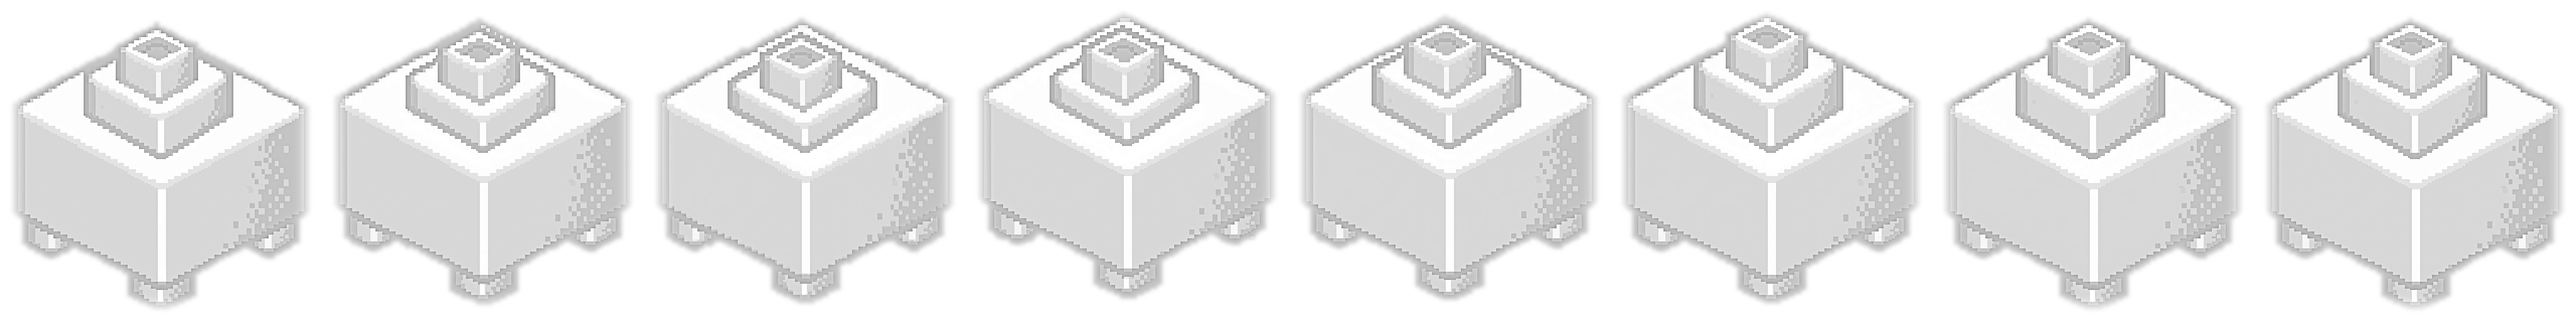
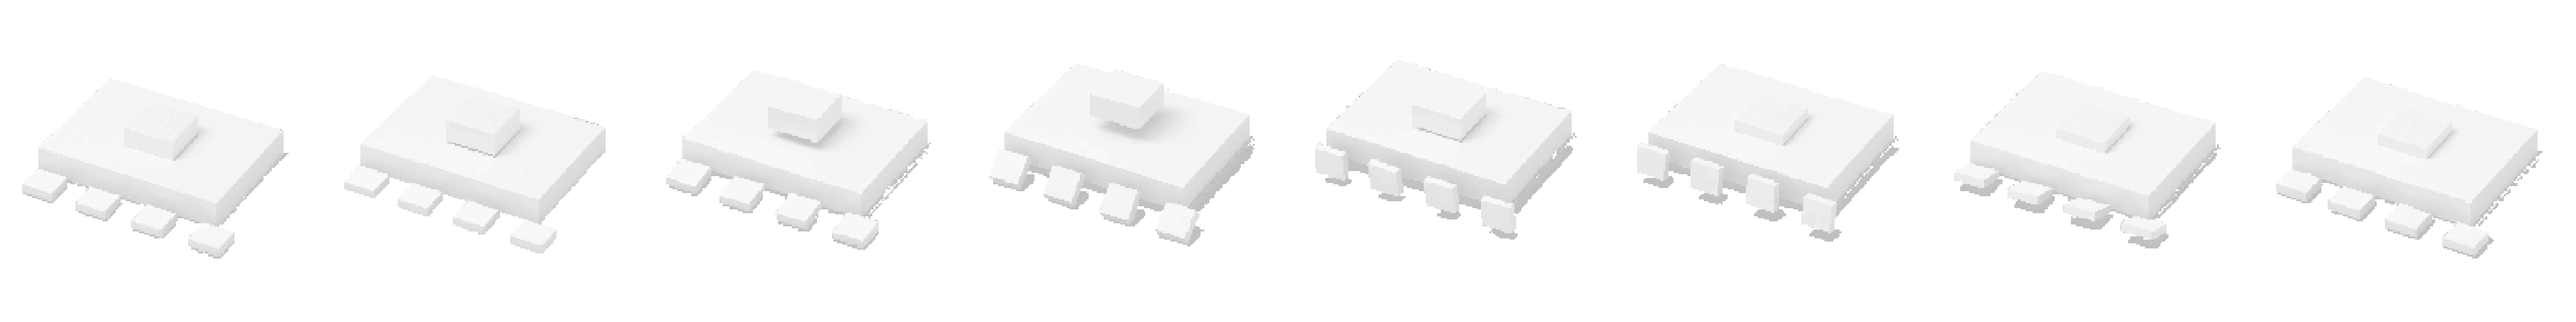
feat(art): the Seeker's projectile tumbles now - projectiles need motion of their own, not just a flight
The cohort knife was rejected: in the arena it read as a static picture moved across the screen.

THE RUNTIME WAS NOT AT FAULT, and that is proven, not assumed: a throwaway strip of the digits 0-7 was
filmed through SPRAY, and 0 -> 5 appear in order at 8 fps while it flies. The flight and the frame clock
share Life, so the 8 frames play once over the 1.0 s crossing, and 6-7 sit in the tail fade. The committed
strip was restored. The cohort knife's eight frames were simply the same picture.

THE NEW STRIP (7ea56119): pinned from the level knife to the same knife tilted ~45 deg point-down (made with
edit_image_pixen 6948b14a), so the interpolation has to turn it. It tumbled the long way, nose up through
vertical, with ~110 deg visible. It keeps the same shape and has no second launch or size pumping. Internal
motion over the visible frames: change 0.07 -> 0.60 (fx_energy.internal_motion, reported not enforced). An
open-ended attempt (ccf65102) stayed level and bent its blade, and was rejected. No glint and no streak came
through. The rotation also shrinks the knife on screen (~320 -> ~130 px): a projectile is sized by the
height of the box around all eight frames. Both are reported for the owner's review, not hidden.
11 generations. Gates: EDGE 0, SOFT 10.3 %, LIVE 883, no FLIGHT warning, lookup confirmed.

OWNER DECISIONS RECORDED (spec.json effects.archetypes, arena-art-contract.md):
- projectiles: two motion layers; a translated static picture is not approved
[…]

diff --git a/production/qa/evidence/vfx-cohort/review.html b/production/qa/evidence/vfx-cohort/review.html
@@ -59,32 +59,32 @@
 <div class="wrap">
   <header style="display:grid;gap:10px">
     <h1>VFX Cohort Review</h1>
-    <p class="lede">Six strips across five temporal archetypes, regenerated through the approved pipeline (assemble → whiten → glow → soften at one source pixel → feather) and filmed in HUNT at true game speed. Every in-game picture is a real frame; each GIF plays every second game frame at exactly 33.3 ms. <span class="mono">fix/vfx-fade</span>, 2026-09-23. Nothing is merged, and no other strip was touched.</p>
+    <p class="lede">Six strips across five temporal archetypes, plus a projectile-motion pilot, regenerated through the approved pipeline (assemble → whiten → glow → soften at one source pixel → feather) and filmed in HUNT at true game speed. Every in-game picture is a real frame; each GIF plays every second game frame at exactly 33.3 ms. <span class="mono">fix/vfx-fade</span>, 2026-09-23. Nothing is merged, and no other strip was touched.</p>
   </header>
 
   <div class="summary">
     <table>
       <thead><tr><th>Strip</th><th>Archetype</th><th>Runtime route</th><th>Generations</th><th>Scale ratio old → new</th><th>Recommendation</th></tr></thead>
       <tbody>
-        <tr><td><code>fx_seeker_trap</code></td><td class="arch">Trap</td><td>JAWS / REPAY, under the enemy row</td><td class="num">6</td><td class="num">1.50 → 1.10 (widest row 1.79 → 1.31)</td><td><span class="chip pass">Pass</span></td></tr>
+        <tr><td><code>fx_seeker_trap</code></td><td class="arch">Trap</td><td>JAWS / REPAY, under the enemy row</td><td class="num">6</td><td class="num">1.50 → 1.10 (widest row 1.79 → 1.31)</td><td><span class="chip cond">Needs tighten cue</span></td></tr>
         <tr><td><code>fx_seeker_mark</code></td><td class="arch">Mark · dual</td><td>CALL over the head, BRAND held behind the hunter</td><td class="num">6</td><td class="num">0.28 → 0.25 · held 1.15 → 1.01</td><td><span class="chip pass">Pass</span></td></tr>
         <tr><td><code>fx_shield</code></td><td class="arch">Shield · dual</td><td>Held barrier and the gain / absorb / undying flares</td><td class="num">11</td><td class="num">0.93 → 1.19</td><td><span class="chip pass">Pass</span></td></tr>
-        <tr><td><code>fx_seeker_projectile</code></td><td class="arch">Projectile</td><td>SPRAY, flown hunter → target</td><td class="num">6</td><td class="num">0.84 → 0.74</td><td><span class="chip pass">Pass</span></td></tr>
-        <tr><td><code>fx_press</code></td><td class="arch">Field</td><td>PRESS, held behind the hunter all fight</td><td class="num">10</td><td class="num">1.44 over → 0.95</td><td><span class="chip cond">Conditional</span></td></tr>
+        <tr><td><code>fx_seeker_projectile</code></td><td class="arch">Projectile</td><td>SPRAY, flown hunter → target</td><td class="num">6 + 11</td><td class="num">0.84 → 0.34 (now tumbles)</td><td><span class="chip cond">Pilot: review</span></td></tr>
+        <tr><td><code>fx_press</code></td><td class="arch">Field</td><td>PRESS, held behind the hunter all fight</td><td class="num">10</td><td class="num">reverted to the old strip</td><td><span class="chip stop">Not approved</span></td></tr>
         <tr><td><code>fx_anvil_strike</code></td><td class="arch">Impact</td><td>THE ANVIL's HARDFACE on a creature</td><td class="num">14</td><td class="num">unchanged (old strip kept)</td><td><span class="chip stop">Stopped</span></td></tr>
       </tbody>
     </table>
   </div>
 
   <section class="fx" id="trap">
-    <div class="fx-head"><h2>Seeker trap</h2><span class="key">fx_seeker_trap</span><span class="chip arch">Trap</span><span class="chip pass">Pass</span></div>
+    <div class="fx-head"><h2>Seeker trap</h2><span class="key">fx_seeker_trap</span><span class="chip arch">Trap</span><span class="chip cond">Needs tighten cue</span></div>
     <div class="pair">
       <figure><img src="img/trap_strips.png" alt="Old drum-shaped trap strip above the new cord snare strip"><figcaption>Old: a drum or wheel. New: a snare of cords, the identity the 2026-08-28 commit asked for.</figcaption></figure>
       <figure><img src="img/trap_realspeed.gif" alt="JAWS in HUNT at game speed, before and after"><figcaption>JAWS at 4.0 s, true speed. Resolved key <code>fx_seeker_trap_strip8_512</code>.</figcaption></figure>
     </div>
     <div class="scroll"><img src="img/trap_ingame.png" alt="Trap frames before and after, aligned on the cast"></div>
     <table class="metrics"><tr><td>Edge / soft / combat-size core</td><td class="num">0 / 0.0 % / 4,352 → 0 / 37.3 % / 3,842</td></tr><tr><td>Diagnostic (settle)</td><td>none, before or after</td></tr><tr><td>Cost</td><td class="num">1 shape + 1 animation = 6</td></tr></table>
-    <div class="verdict pass"><p>One placement, settles and holds, fades, with no rectangle and no second placement. The art spans the frame width, so the standard row fits the scale budget (1.50 → 1.10). The widest row still needs 1.31, the structural remainder you asked me to report. Caveat: PixelLab barely moved the rope, so the snare appears whole instead of snapping shut.</p></div>
+    <div class="verdict pass"><p>One placement, settles and holds, fades, with no rectangle and no second placement. The art spans the frame width, so the standard row fits the scale budget (1.50 → 1.10). The widest row still needs 1.31, the structural remainder you asked me to report. Under the recorded trap decision this is not yet enough: PixelLab barely moved the rope, so the snare appears already tight, with no appear → tighten → hold event. It passes every gate and needs one re-roll for the tension cue.</p></div>
   </section>
 
   <section class="fx" id="mark">
@@ -116,25 +116,29 @@
   </section>
 
   <section class="fx" id="knife">
-    <div class="fx-head"><h2>Seeker projectile</h2><span class="key">fx_seeker_projectile</span><span class="chip arch">Projectile</span><span class="chip pass">Pass</span></div>
+    <div class="fx-head"><h2>Seeker projectile — motion pilot</h2><span class="key">fx_seeker_projectile</span><span class="chip arch">Projectile · two motion layers</span><span class="chip cond">For review</span></div>
+    <p>The cohort knife was rejected: it read as a static picture moved across the screen. The runtime was not at fault. A diagnostic strip of the digits 0–7, filmed through SPRAY, shows the frames advancing at 8 fps while it flies (0 → 5 visible, 6–7 inside the tail fade). The strip itself was still.</p>
     <div class="pair">
-      <figure><img src="img/knife_strips.png" alt="Old and new thrown-knife strips"><figcaption>Same thrown knife, now with soft alpha.</figcaption></figure>
-      <figure><img src="img/knife_realspeed.gif" alt="SPRAY at game speed"><figcaption>SPRAY at 5.2 s: the renderer flies the strip. Key <code>fx_seeker_projectile_strip8_512</code>.</figcaption></figure>
+      <figure><img src="img/proj_frozen_realspeed.gif" alt="A window following each projectile, old versus new, at game speed"><figcaption><strong>Frozen view:</strong> the window follows each projectile, so world motion cancels. Old: the same picture every frame. New: the knife tumbles.</figcaption></figure>
+      <figure><img src="img/proj_world_realspeed.gif" alt="Old and new projectile on the same flight, at game speed"><figcaption><strong>World view:</strong> the same SPRAY flight, old above new, true speed.</figcaption></figure>
     </div>
-    <div class="scroll"><img src="img/knife_ingame.png" alt="Knife flight frames before and after"></div>
-    <table class="metrics"><tr><td>Edge / soft / combat-size core</td><td class="num">0 / 0.0 % / 1,006 → 0 / 11.2 % / 1,234</td></tr><tr><td>Diagnostic (flight)</td><td>none</td></tr><tr><td>Cost</td><td class="num">1 shape + 1 pinned animation = 6</td></tr></table>
-    <div class="verdict pass"><p>Continuous flight, stable size, no reset. Caveat: it does not spin. The image route keeps rigid objects still, so "a spinning thrown blade" reads as a knife thrown straight, which is what the old strip already did.</p></div>
+    <div class="pair">
+      <figure><img src="img/proj_digit_proof.png" alt="Digits 0 to 5 appearing in order during the flight"><figcaption>Runtime proof: the digit strip advances frame by frame during travel.</figcaption></figure>
+      <figure><img src="img/proj_candidates.png" alt="Rejected and selected projectile candidates"><figcaption>Rejected: the open-ended clip (stays level, the blade bends). Selected: pinned level → tilted, using a tilted pose made with PixelLab's editor.</figcaption></figure>
+    </div>
+    <table class="metrics"><tr><td>Internal motion over frames 0–5 (change / turn / glint)</td><td class="num">cohort 0.07 / 1.4° / 0.03 → new 0.60 / ~110° / 0.05</td></tr><tr><td>Edge / soft / combat-size core</td><td class="num">0 / 10.3 % / 883</td></tr><tr><td>Cost</td><td class="num">11 (two animations + one edit)</td></tr></table>
+    <div class="verdict cond"><p>It is alive at combat size and it is the same knife throughout. But it tumbles the long way (nose up through vertical, about 110° visible), has no glint or streak, and the rotation shrinks it on screen: sizing uses the height of the box around all eight frames, so the knife drops from about 320 px to about 130 px long. That is closer to a real knife, but it is a visible change.</p></div>
   </section>
 
   <section class="fx" id="press">
-    <div class="fx-head"><h2>Press field</h2><span class="key">fx_press</span><span class="chip arch">Field</span><span class="chip cond">Conditional</span></div>
+    <div class="fx-head"><h2>Press field</h2><span class="key">fx_press</span><span class="chip arch">Field</span><span class="chip stop">Not approved · reverted</span></div>
     <div class="pair">
       <figure><img src="img/press_strips.png" alt="Old flat slab above the new square weight"><figcaption>Old: a wide flat slab. Its short height is why it was over budget. New: a square weight.</figcaption></figure>
       <figure><img src="img/press_realspeed.gif" alt="PRESS held behind the hunter at game speed"><figcaption>Held all fight behind the hunter. Key <code>fx_press</code>.</figcaption></figure>
     </div>
     <div class="scroll"><img src="img/press_ingame.png" alt="PRESS frames before and after across one loop"></div>
     <table class="metrics"><tr><td>Edge / soft / combat-size core</td><td class="num">0 / 23.3 % / 3,991 → 0 / 51.6 % / 7,363</td></tr><tr><td>Scale ratio</td><td class="num">1.44 over (clamped, magnified) → 0.95</td></tr><tr><td>Cost</td><td class="num">5 shapes + 1 pinned animation = 10</td></tr></table>
-    <div class="verdict cond"><p>What regeneration was for is done: the field is within budget and loops cleanly, with no bloom over the hunter. But behind the hunter it reads as a plain box, and at its pulses as a big pink box. Every bold prop prompt returned a shaded object (a hydraulic press, a box with dials, three tyres), and "symbol" returned an opaque checkerboard. <strong>What should the PRESS field depict?</strong> The fields that read well are line-art sigils (<code>fx_aura</code>, <code>fx_wilt</code>).</p></div>
+    <div class="verdict cond"><p>What regeneration was for is done: the field is within budget and loops cleanly, with no bloom over the hunter. But behind the hunter it reads as a plain box, and at its pulses as a big pink box. Every bold prop prompt returned a shaded object (a hydraulic press, a box with dials, three tyres), and "symbol" returned an opaque checkerboard. Decision: PRESS will be an abstract pressure field, a rune or line-art force symbol like the other fields. The square weight was reverted to the old strip, and PRESS is not regenerated in this pass.</p></div>
   </section>
 
   <section class="fx" id="anvil">
@@ -152,12 +156,13 @@
   </section>
 
   <section class="fx">
-    <h3>Decisions for you</h3>
+    <h3>Decisions recorded (spec.json effects.archetypes, arena-art-contract.md)</h3>
     <ul class="decisions">
-      <li><strong>Assembly rule for impacts:</strong> assemble open-ended impacts from the input frame plus generated 1–7. It removes the most common failure (an empty last frame: 3 of the 8 open-ended dispersal clips across all three rounds) and would rescue the anvil for free. The approved Seeker strike is unaffected unless it is refiled.</li>
-      <li><strong>PRESS field picture:</strong> keep the square weight, or redraw it as a line-art sigil like the other fields.</li>
-      <li><strong>Subtle motion:</strong> accept a knife that flies without spinning and a snare that appears already tight. PixelLab does not move rigid objects.</li>
-      <li><strong>Widest-row traps:</strong> 1.31 over budget even when the art fills its width. Options: a wider native frame, or a smaller trap scale.</li>
+      <li><strong>Projectiles:</strong> two motion layers. The runtime flies the strip; the strip itself must visibly change. A translated static picture is not approved.</li>
+      <li><strong>Impact assembly:</strong> input frame + generated 1–7 when an open-ended impact ends empty (<code>fxclips.py --impact-from-input</code>, refused for anything held).</li>
+      <li><strong>PRESS:</strong> an abstract line-art pressure field. The square weight is not approved and was reverted.</li>
+      <li><strong>Traps:</strong> activation must read as appear, then tighten, then hold; after that a trap may stay still. The Seeker snare installed in this cohort appears already tight, so it does not yet show the tighten cue.</li>
+      <li><strong>Trap frames:</strong> keep the 512 contract. On the widest row the budget clamp already draws the trap slightly smaller.</li>
     </ul>
   </section>
 </div>

diff --git a/tools/fx_energy.py b/tools/fx_energy.py
@@ -90,11 +90,13 @@ class Frame:
     """One frame's readings. `energy`/`core` carry the one-shot tail fade; `raw`, the centroid and the
     occupancy do not, because a HELD effect loops and never fades, and shape continuity is a property
     of the art, not of how brightly the renderer happens to be drawing it."""
-    __slots__ = ("energy", "bright", "core", "radius", "fade", "raw", "cx", "cy", "occ")
+    __slots__ = ("energy", "bright", "core", "radius", "fade", "raw", "cx", "cy", "occ", "angle", "gx", "gy")
 
-    def __init__(self, energy, bright, core, radius, fade, raw=0.0, cx=0.5, cy=0.5, occ=frozenset()):
+    def __init__(self, energy, bright, core, radius, fade, raw=0.0, cx=0.5, cy=0.5, occ=frozenset(),
+                 angle=0.0, gx=0.5, gy=0.5):
         self.energy, self.bright, self.core, self.radius, self.fade = energy, bright, core, radius, fade
         self.raw, self.cx, self.cy, self.occ = raw, cx, cy, occ
+        self.angle, self.gx, self.gy = angle, gx, gy
 
 
 def fade_light(frame, frames):
@@ -119,7 +121,8 @@ def curve(src):
     for f in range(n):
         x0 = f * fw
         w = fade_light(f, n)
-        total = wr = sx = sy = 0.0
+        total = wr = sx = sy = sxx = syy = sxy = 0.0
+        hot = []
         bright = core = 0
         coarse = {}
         for cy in range(cells):
@@ -144,6 +147,10 @@ def curve(src):
                 wr += light * r
                 sx += light * (cx + 0.5)
                 sy += light * (cy + 0.5)
+                sxx += light * (cx + 0.5) ** 2
+                syy += light * (cy + 0.5) ** 2
+                sxy += light * (cx + 0.5) * (cy + 0.5)
+                hot.append((light, cx + 0.5, cy + 0.5))
                 key = (cx // OCC_BLOCK, cy // OCC_BLOCK)
                 coarse[key] = coarse.get(key, 0.0) + light
                 if light >= BRIGHT:
@@ -151,10 +158,21 @@ def curve(src):
                     if r < CORE_R:
                         core += 1
         occ_min = OCC_LIGHT * OCC_BLOCK * OCC_BLOCK
+        angle, gx, gy = 0.0, 0.5, 0.5
+        if total:
+            mx, my = sx / total, sy / total
+            cxx, cyy, cxy = sxx / total - mx * mx, syy / total - my * my, sxy / total - mx * my
+            angle = math.degrees(0.5 * math.atan2(2 * cxy, cxx - cyy))
+            # THE GLINT: the centroid of the brightest tenth of the lit cells
+            hot.sort(reverse=True)
+            top = hot[:max(1, len(hot) // 10)]
+            tl = sum(h[0] for h in top)
+            gx, gy = sum(h[0] * h[1] for h in top) / tl / cells, sum(h[0] * h[2] for h in top) / tl / cells
         out.append(Frame(w * total / (cells * cells), bright, w * core, wr / total if total else 0.0, w,
                          raw=total / (cells * cells),
                          cx=sx / total / cells if total else 0.5, cy=sy / total / cells if total else 0.5,
-                         occ=frozenset(k for k, v in coarse.items() if v >= occ_min)))
+                         occ=frozenset(k for k, v in coarse.items() if v >= occ_min),
+                         angle=angle, gx=gx, gy=gy))
     return out
 
 
@@ -256,6 +274,25 @@ def loop_findings(frames):
     if min(raw) > 0 and max(raw) / min(raw) > LOOP_SWING:
         found.append(f"LOOP: its light swings {max(raw) / min(raw):.1f}x across the loop (more than breathing)")
     return found
+
+
+VISIBLE_FRAMES = 6    # PROJECTILE: frames 0-5; 6-7 sit in the renderer's tail fade (measured with a digit strip)
+
+
+def internal_motion(frames):
+    """How much a projectile's picture changes on its own, over the frames the player actually sees.
+
+    Reported, never enforced (2026-09-23 projectile pilot): `change` is the mean silhouette change
+    between consecutive frames (1 - overlap of the combat-scale occupancy), `turn` the range of its
+    principal-axis angle in degrees, and `glint` how far its brightest tenth travels, as a share of the
+    frame. A picture that only translates scores ~0 on all three.
+    """
+    vis = frames[:VISIBLE_FRAMES]
+    steps = [1.0 - _iou(vis[k].occ, vis[k + 1].occ) for k in range(len(vis) - 1)]
+    angles = [f.angle for f in vis]
+    glint = max(math.hypot(a.gx - b.gx, a.gy - b.gy) for a in vis for b in vis)
+    return {"change": sum(steps) / len(steps) if steps else 0.0,
+            "turn": max(angles) - min(angles), "glint": glint}
 
 
 _SPEC = None

diff --git a/tools/asset-pipeline/v2/fxclips.py b/tools/asset-pipeline/v2/fxclips.py
@@ -3,6 +3,12 @@
 
     python tools/asset-pipeline/v2/fxclips.py <charId> <form>=<animate_image jobId> [...]
     python tools/asset-pipeline/v2/fxclips.py shared <key>=<animate_image jobId> [...]
+    python tools/asset-pipeline/v2/fxclips.py <charId> --impact-from-input strike=<jobId>
+
+`--impact-from-input` is the owner's IMPACT assembly policy (2026-09-23): the input frame + generated
+frames 1-7, for an open-ended impact whose last generated frame came back EMPTY (3 of 8 dispersal clips).
+It is refused for any strip that is not purely an IMPACT (spec.json effects.archetypes): a field, a mark,
+the shield, or anything also HELD keeps the default assembly.
 
 Each pair becomes `assets/art/VFX/<char>_<form>/fx_<char>_<form>_strip8_512.png`, which is the key
 `HuntScreen.FxFor` asks for first, before it falls back to the shared `fx_<form>`.
@@ -51,14 +57,22 @@ def soften_radius(out: str) -> int:
         return max(1, round(SOFTEN_SOURCE_PX * FRAME / max(f0.size)))
 
 
-def run(char: str, form: str, job: str) -> tuple[str, bool, str]:
+def is_pure_impact(key: str) -> bool:
+    """Whether the IMPACT assembly policy may touch this strip: an IMPACT, and never also HELD."""
+    sys.path.insert(0, os.path.join(REPO, "tools"))
+    import fx_energy  # noqa: E402
+    arch = fx_energy.archetypes_of(f"{key}_strip8_512.png")
+    return arch == ["IMPACT"]
+
+
+def run(char: str, form: str, job: str, from_input: bool = False) -> tuple[str, bool, str]:
     stem = form if char == "shared" else f"{char}_{form}"
     out_dir = os.path.join(VFX, stem)
     out = os.path.join(out_dir, f"fx_{stem}_strip8_512.png")
     os.makedirs(out_dir, exist_ok=True)
     p = subprocess.run(
         [sys.executable, os.path.join(HERE, "clip.py"), "job",
-         "--job", job, "--out", out, "--effect"],
+         "--job", job, "--out", out, "--effect", *(["--from-input"] if from_input else [])],
         capture_output=True, text=True)
     tail = (p.stdout or p.stderr).strip().splitlines()
     ok = p.returncode == 0
@@ -94,8 +108,9 @@ def main(argv: list[str]) -> int:
         print(__doc__)
         return 2
     char = argv[0]
+    from_input = "--impact-from-input" in argv[1:]
     pairs = []
-    for a in argv[1:]:
+    for a in (x for x in argv[1:] if x != "--impact-from-input"):
         if "=" not in a:
             print(f"expected <form>=<jobId>, got {a!r}")
             return 2
@@ -107,12 +122,16 @@ def main(argv: list[str]) -> int:
         elif form not in FORMS:
             print(f"unknown form {form!r}; expected one of {', '.join(FORMS)}")
             return 2
+        stem = form if char == "shared" else f"{char}_{form}"
+        if from_input and not is_pure_impact(f"fx_{stem}"):
+            print(f"--impact-from-input refused for fx_{stem}: it is not purely an IMPACT (spec.json effects.archetypes)")
+            return 2
         pairs.append((form, job))
 
     bad = 0
     print(f"-- {char} effects --")
     for form, job in pairs:
-        name, ok, line = run(char, form, job)
+        name, ok, line = run(char, form, job, from_input)
         print(f"  {name:16} {'PASS' if ok else 'FAIL'}  {line}")
         bad += 0 if ok else 1
     print(f"  {len(pairs) - bad}/{len(pairs)} filed")

diff --git a/tools/asset-pipeline/v2/clip.py b/tools/asset-pipeline/v2/clip.py
@@ -128,6 +128,9 @@ def main(argv: list[str]) -> int:
     j.add_argument("--fallen", action="store_true",
                    help="a death clip: the body ends fully fallen, so frames may lie as flat as 22 %% of the standing one")
     j.add_argument("--flip", action="store_true")
+    j.add_argument("--from-input", dest="from_input", action="store_true",
+                   help="IMPACT policy (owner, 2026-09-23): frames = the input frame + generated 1-7, for an "
+                        "open-ended dispersal whose last generated frame came back empty. Never for held effects.")
 
     s = sub.add_parser("still")
     s.add_argument("--url", required=True); s.add_argument("--out", required=True)
@@ -142,7 +145,10 @@ def main(argv: list[str]) -> int:
         frames = fetch_all(urls, cache, a.anim)
         rhart.build_strip(frames, a.out, a.frame, a.fit, 0.035, a.flip, 8, False, False)
     elif a.cmd == "job":
-        urls = [f"{IMG_BASE}/{a.job}/download?index={i}" for i in range(1, 9)]
+        # index 0 is the input frame. The default drops it; --from-input keeps it and drops the last
+        # generated frame instead, which an open-ended outward dispersal empties in 3 of 8 clips.
+        first = 0 if getattr(a, "from_input", False) else 1
+        urls = [f"{IMG_BASE}/{a.job}/download?index={i}" for i in range(first, first + 8)]
         frames = fetch_all(urls, cache, a.job)
         rhart.build_strip(frames, a.out, a.frame, a.fit, 0.035, a.flip, 8, False, a.effect)
     else:

diff --git a/production/qa/evidence/vfx-projectile/README.md b/production/qa/evidence/vfx-projectile/README.md
@@ -1,0 +1,63 @@
+# Projectile-motion pilot — `fx_seeker_projectile` (2026-09-23)
+
+**Branch** `fix/vfx-fade` (not merged) · **Scope** the Seeker's projectile only · **Decision it tests** projectiles
+need two motion layers: WORLD motion (the renderer flies the strip) and INTERNAL motion (the strip itself
+visibly changes).
+
+## 1. The runtime already animates projectiles (proof: `01_runtime_digit_proof.png`)
+
+`cast.projectile` plays the strip at **8 fps**, and the flight (`Anim.Drift`) runs on the **same clock**
+(`Life`), eased out. So the 8 frames play exactly once over the 1.0 s flight. To prove it rather than read
+it, a throwaway strip whose frames are the digits 0–7 was filmed through SPRAY: **0 → 1 → 2 → 3 → 4 → 5**
+appear in order, about 125 ms each, while the strip crosses the gap. Frames 6–7 sit inside the renderer's
+tail fade and are effectively unseen. The committed strip was restored with git afterwards. **No runtime
+change was needed.** The cohort knife looked static because its eight frames were nearly identical.
+
+## 2–3. Candidates — 11 generations (4,365 → 4,354)
+
+| Job | How | Verdict |
+|---|---|---|
+| `ccf65102` | open-ended: tumble + glint + speed streak | **Rejected**: stays level (turn 7.6°), and from frame 4 the blade tip bends and curls, so the object changes shape |
+| `6948b14a` | `edit_image_pixen`: the same knife tilted ~45° point-down | used as B's pinned last frame (1 generation) |
+| `7ea56119` | pinned: level → tilted | **Selected**: the same knife in every frame, tumbling. It went the long way round (nose up through vertical); about 110° is visible in frames 0–5 |
+
+The shape is the cohort's knife (`cd704393`), so no new shape was generated.
+
+## 4–5. Old vs new, true speed, same world trajectory (`02`–`05`)
+
+- **World view (`02`):** the old strip is a sword-sized blade that glides without changing. The new
+  one is a knife that **tumbles as it flies**: it lifts from level toward vertical while crossing the gap.
+- **Frozen view (`03`, `04`):** a window that follows each projectile, so world motion cancels. **Old:
+  the same picture in every frame. New: a visibly rotating knife.** Frozen at one world position, it is
+  plainly alive.
+- **Internal motion, measured on the strip over the six visible frames** (`fx_energy.internal_motion`,
+  reported and never enforced):
+
+| Strip | Silhouette change / step | Turn | Glint travel |
+|---|---|---|---|
+| old (pre-cohort) | 0.205 (its tail flicker only) | 0.7° | 0.236 |
+| cohort knife `17f76b3d` | 0.072 | 1.4° | 0.027 |
+| **new knife `7ea56119`** | **0.602** | **~110° seen** (the metric reads 150: the axis angle wraps at vertical) | 0.046 |
+
+**What the player sees:** a real tumble, end over end in its first part. **What it does not have:** a
+travelling glint and a speed streak. The pinned interpolation ignored that half of the prompt.
+
+## 6. Trail
+
+None was produced, so its effect on readability is untested here. The rotation alone carries the
+motion.
+
+## A consequence of the placement contract you should know about
+
+A projectile is sized so its content box's HEIGHT is 0.28 × the hunter's height, and the content box is
+the union of all eight frames. A level knife's box is only the blade's width, so the old knife was blown up
+to ~320 px long, about 75 % of the hunter. Once the knife rotates, the union box grows tall and the whole
+knife shrinks to fit: the new one is ~120–150 px (frame 376 → 174 px, ratio 0.74 → 0.34). That is closer
+to a real thrown knife, but it is a visible size change. **Any readable rotation couples to size this way**
+unless projectile sizing moves to a length basis, which is a runtime decision and was not made here.
+
+## 7. Gates
+
+EDGE 0 · SOFT 10.33 % · LIVE 883 (≥ 150) · no FLIGHT warning · 4096×512, 8 frames · lookup
+`cast.projectile key=fx_seeker_projectile_strip8_512` · `-warnaserror` 0/0 · Core 1,850 · Game 712 ·
+Integration 2 · `check_all.sh` green · library 56 of 67 failing (unchanged).

diff --git a/design/art/arena-art-contract.md b/design/art/arena-art-contract.md
@@ -233,6 +233,20 @@ appear, it does not repeat or restart"). The reusable rules, with what each one 
 (`fxclips.py`); `tools/check_fx_edges.py` fails a strip that is unreadable at combat size (LIVE), and
 `tools/fx_energy.py` draws the per-frame curve that shows a second hit.
 
+**Owner decisions after the archetype cohort (2026-09-23).** The contracts are in
+`spec.json` → `effects.archetypes`. In short:
+- **Projectiles have two motion layers.** The renderer moves the strip to its target: one pass of the 8
+  frames over the 1.0 s flight, of which frames 0–5 are seen. The strip itself must also visibly change
+  (a blade tumbles or glints, an orb pulses). A picture that only translates is not approved.
+- **Impact assembly.** An open-ended IMPACT whose last generated frame comes back empty is assembled
+  from the input frame + generated 1–7 (`fxclips.py --impact-from-input`, refused for anything held).
+- **PRESS** is an abstract pressure field: a rune or line-art force symbol like the other fields. Never a
+  literal weight, box or machine.
+- **A trap's activation is a physical event**: appear, then a tighten or tension cue, then the held state.
+  After that it may stay still.
+- **The 512 frame stays.** On the widest row the budget clamp already draws a trap slightly smaller;
+  anything more is a world-space trap problem, not a new asset format.
+
 ## 4. Naming (unchanged where the code already asks)
 
 | Asset | Path | Key |
